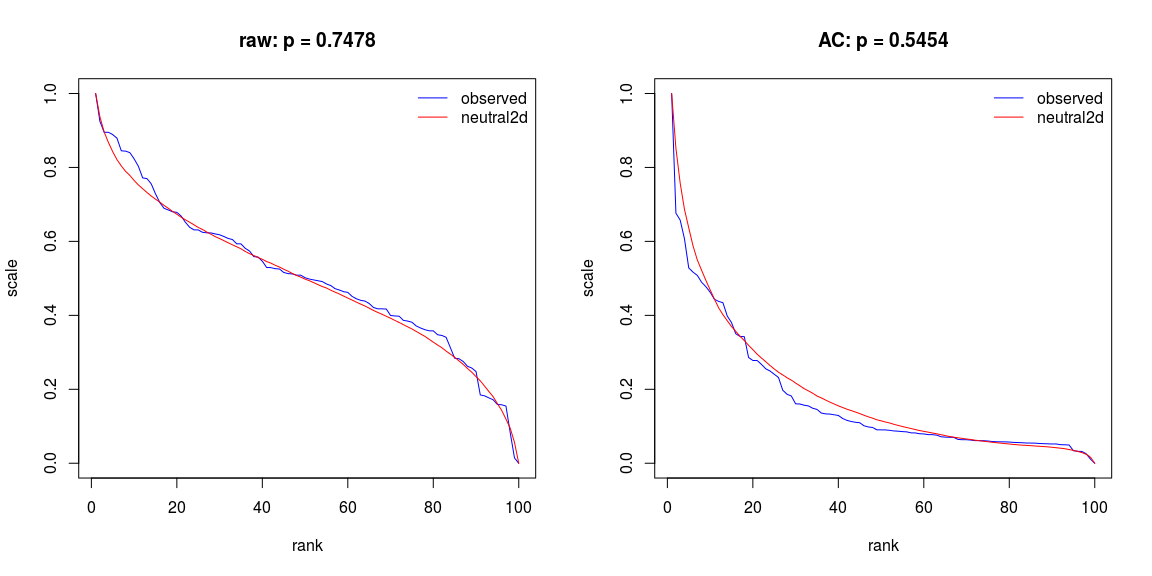
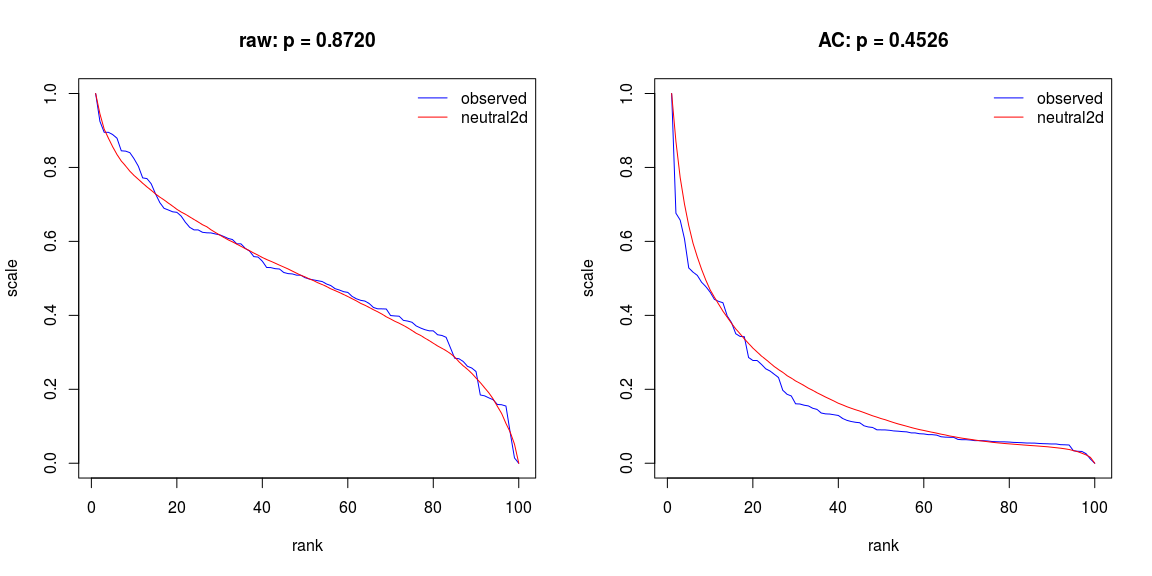
update readme.me

diff --git a/README.md b/README.md
@@ -50,8 +50,8 @@ run_tests (size=10, ntests=100)
     ##              differences     p-values        |                       |
     ##   alpha      raw     AC      raw     AC      |   alpha           n   |
     ## ---------------------------------------------|-----------------------|
-    ##  (0.1, 0.1)  1.17    0.21    0.0002  0.5559  |   (0.31, 0.17)    10  |
-    ##  (0.1, 0)    1.13    0.25    0.0003  0.1035  |   (0.23, 0.11)    10  |
+    ##  (0.1, 0.1)  0.21    0.06    0.1267  0.9009  |   (0.81, 0.09)    10  |
+    ##  (0.1, 0)    0.18    0.08    0.1623  0.9859  |   (0.86, 0.09)    9   |
     ## ----------------------------------------------------------------------
 
 Note that the model field tested here has a complex *temporal* structure yet a generic---that is, neutral---\*spatial structure, and that the `p-values` reflect these differences.
@@ -65,6 +65,6 @@ run_tests (size=10, ntests=100, neutral=TRUE)
     ##              differences     p-values        |                       |
     ##   alpha      raw     AC      raw     AC      |   alpha           n   |
     ## ---------------------------------------------|-----------------------|
-    ##  (0.1, 0.1)  0.16    0.13    0.1797  0.4289  |   (0.11, 0.12)    10  |
-    ##  (0.1, 0)    0.10    0.12    0.3178  0.5556  |   (0.08, 0.11)    10  |
+    ##  (0.1, 0.1)  0.07    0.18    0.9041  0.9848  |   (0.59, 0.10)    11  |
+    ##  (0.1, 0)    0.08    0.21    0.7236  0.6503  |   (0.14, 0.07)    10  |
     ## ----------------------------------------------------------------------
